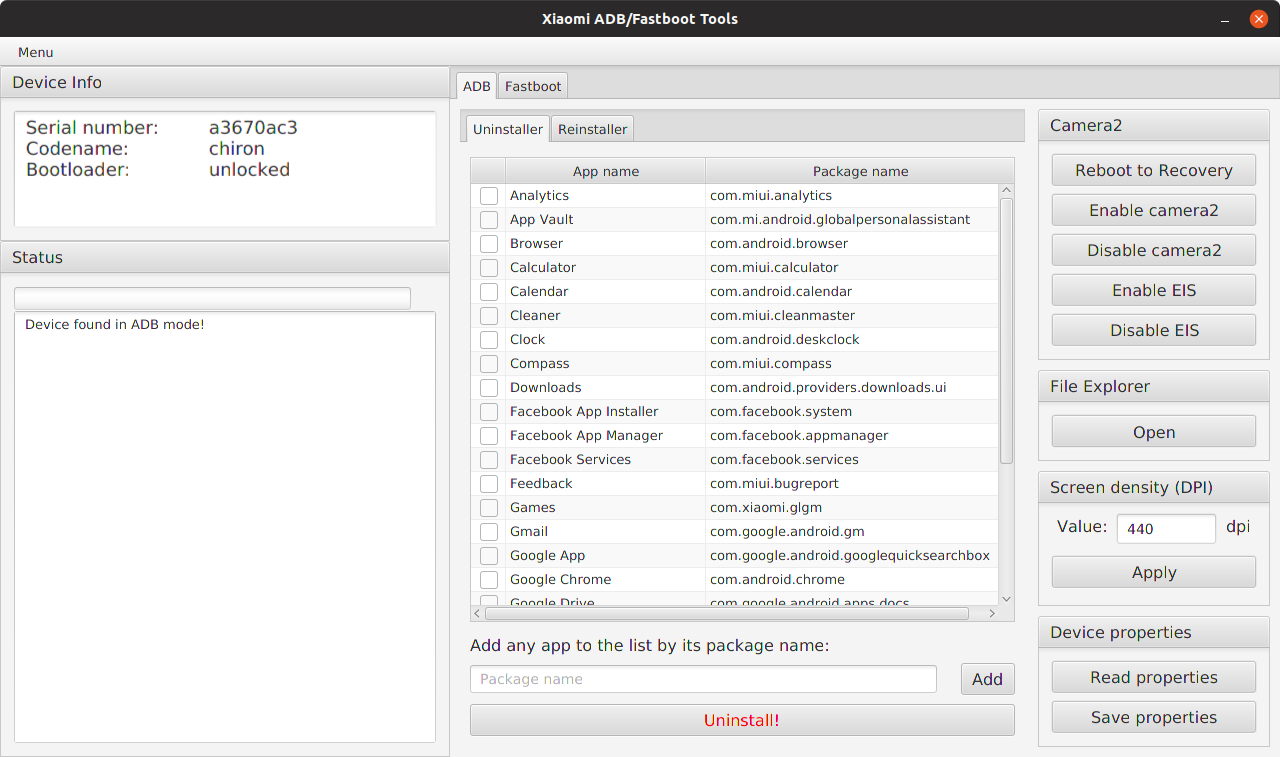
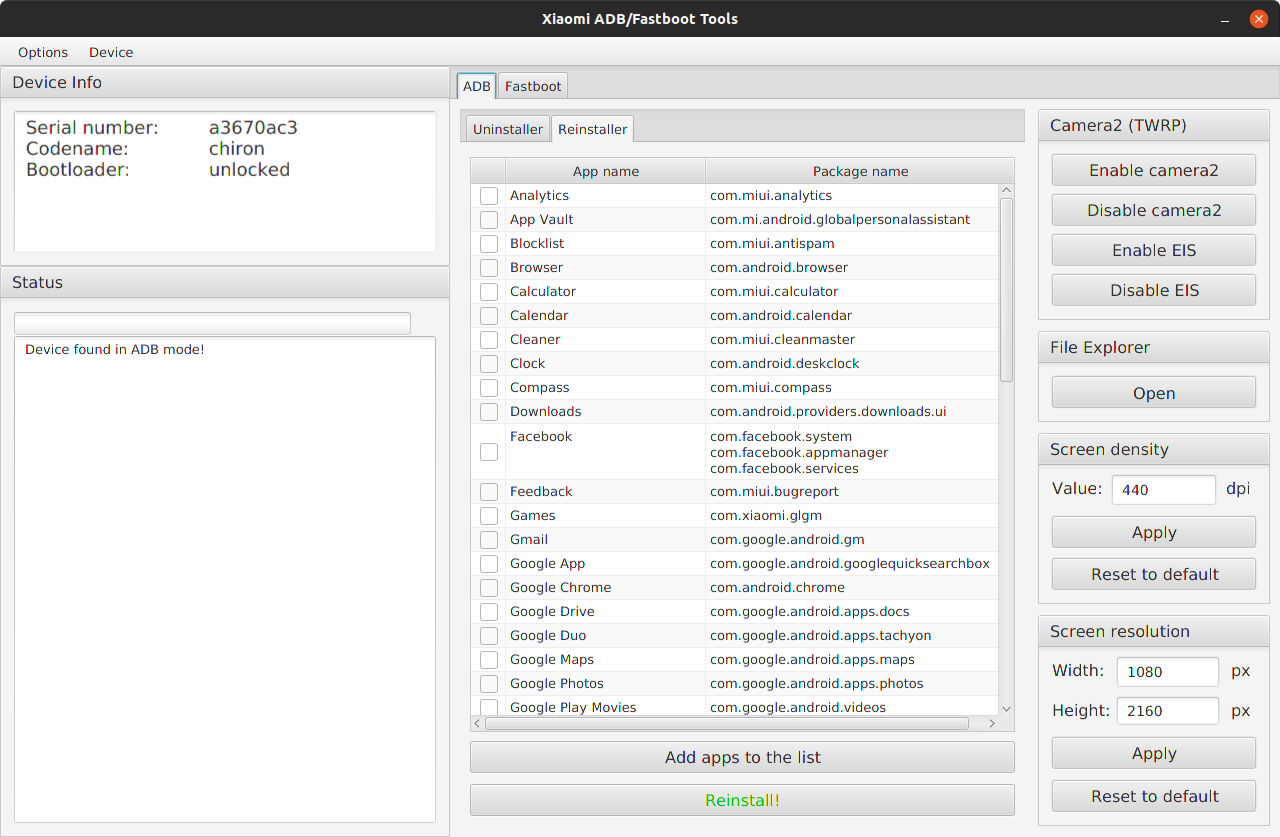
Updated README

Changed region(s): [[0.0, 0.0, 1.0, 0.9723], [0.0, 0.395, 0.3438, 0.4557], [0.0, 0.3342, 0.0625, 0.3646]]

diff --git a/README.md b/README.md
@@ -6,11 +6,12 @@
 
 ## Modules
 
-* **Uninstaller** - Remove system apps and services on demand
+* **Uninstaller** - Uninstall system apps and services on demand
 * **Reinstaller** - Reinstall removed system apps and services
 * **Camera2** - Enable Camera2 and EIS (TWRP required)
 * **File Explorer** - Transfer files between a device and a computer using ADB
 * **Screen density** - Tweak screen density by overriding the DPI value
+* **Screen resolution** - Tweak screen resolution by overriding the width and height values
 * **Device properties** - Retrieve tons of statistics and information about your device
 * **Flasher** - Flash any partition with an image, boot to any image or flash a Fastboot ROM (unlocked bootloader required)
 * **Wiper** - Wipe the cache or perform a factory reset
